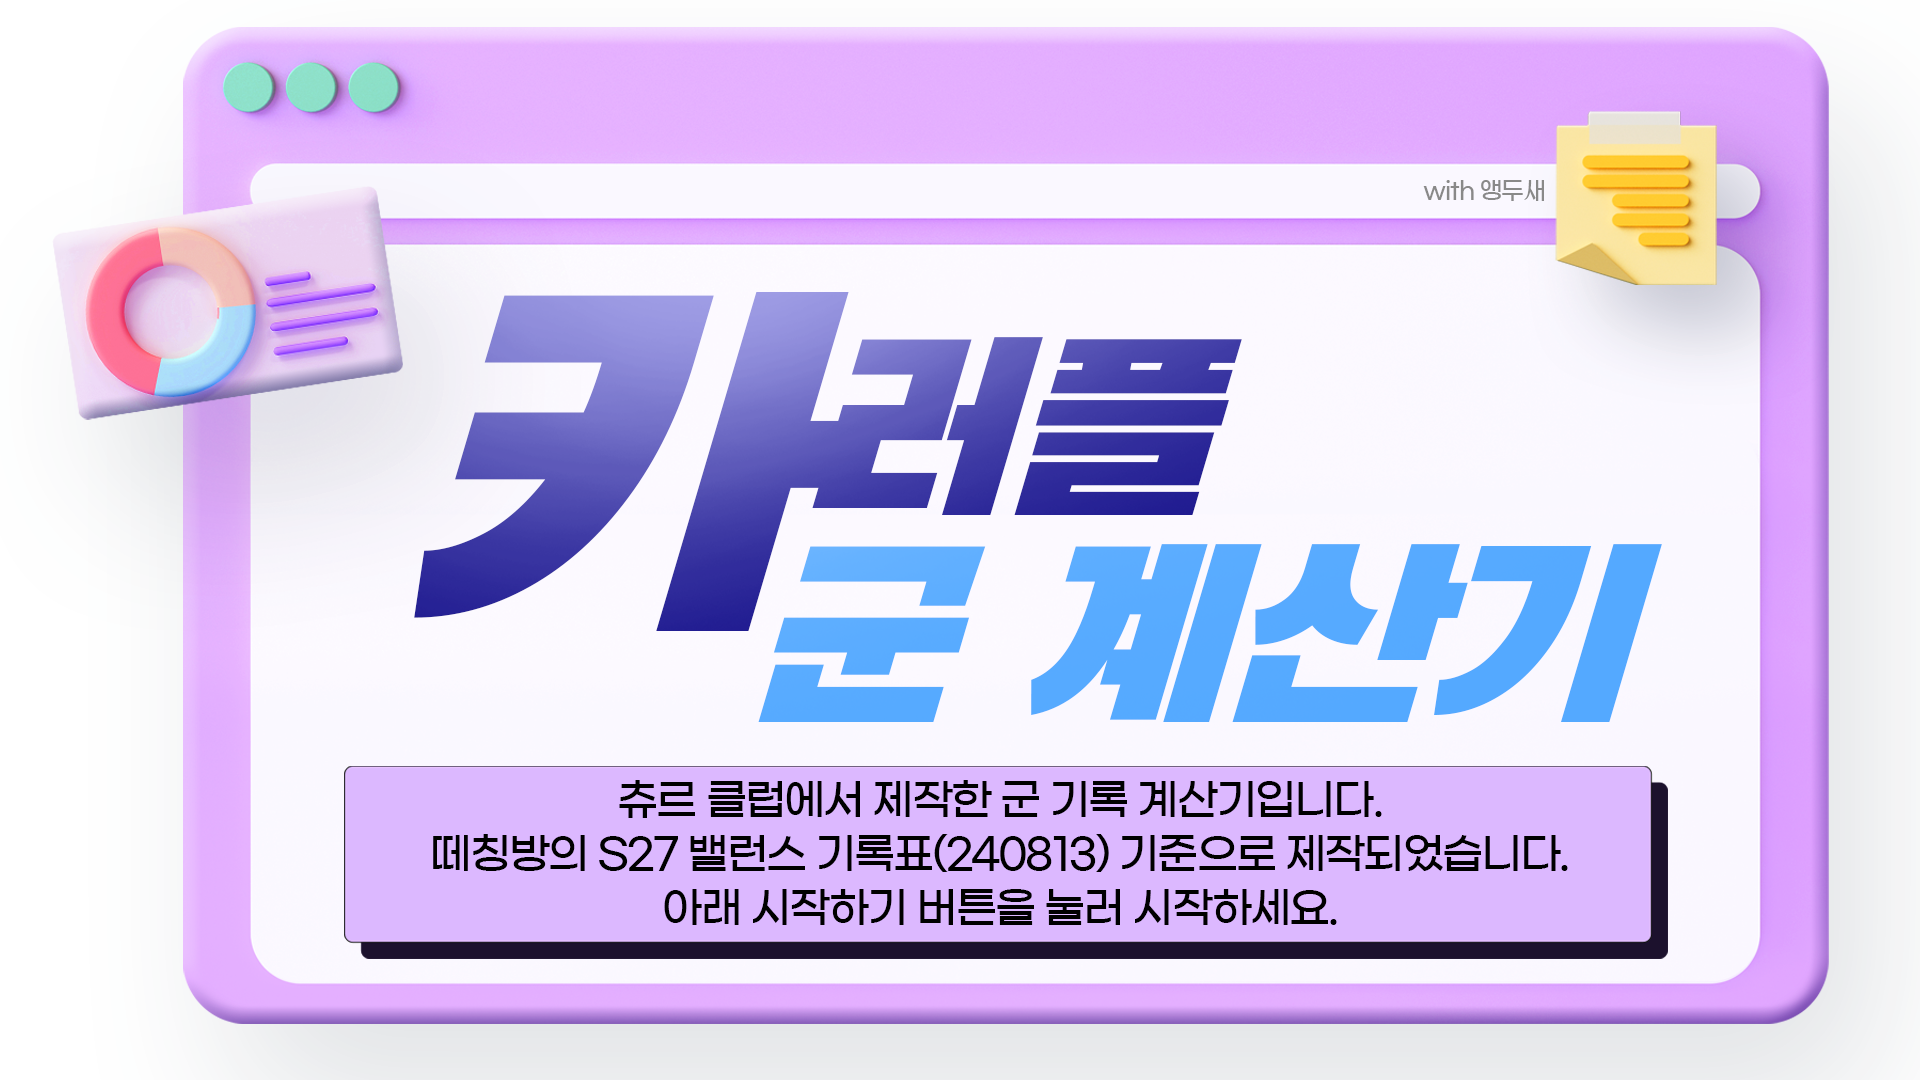
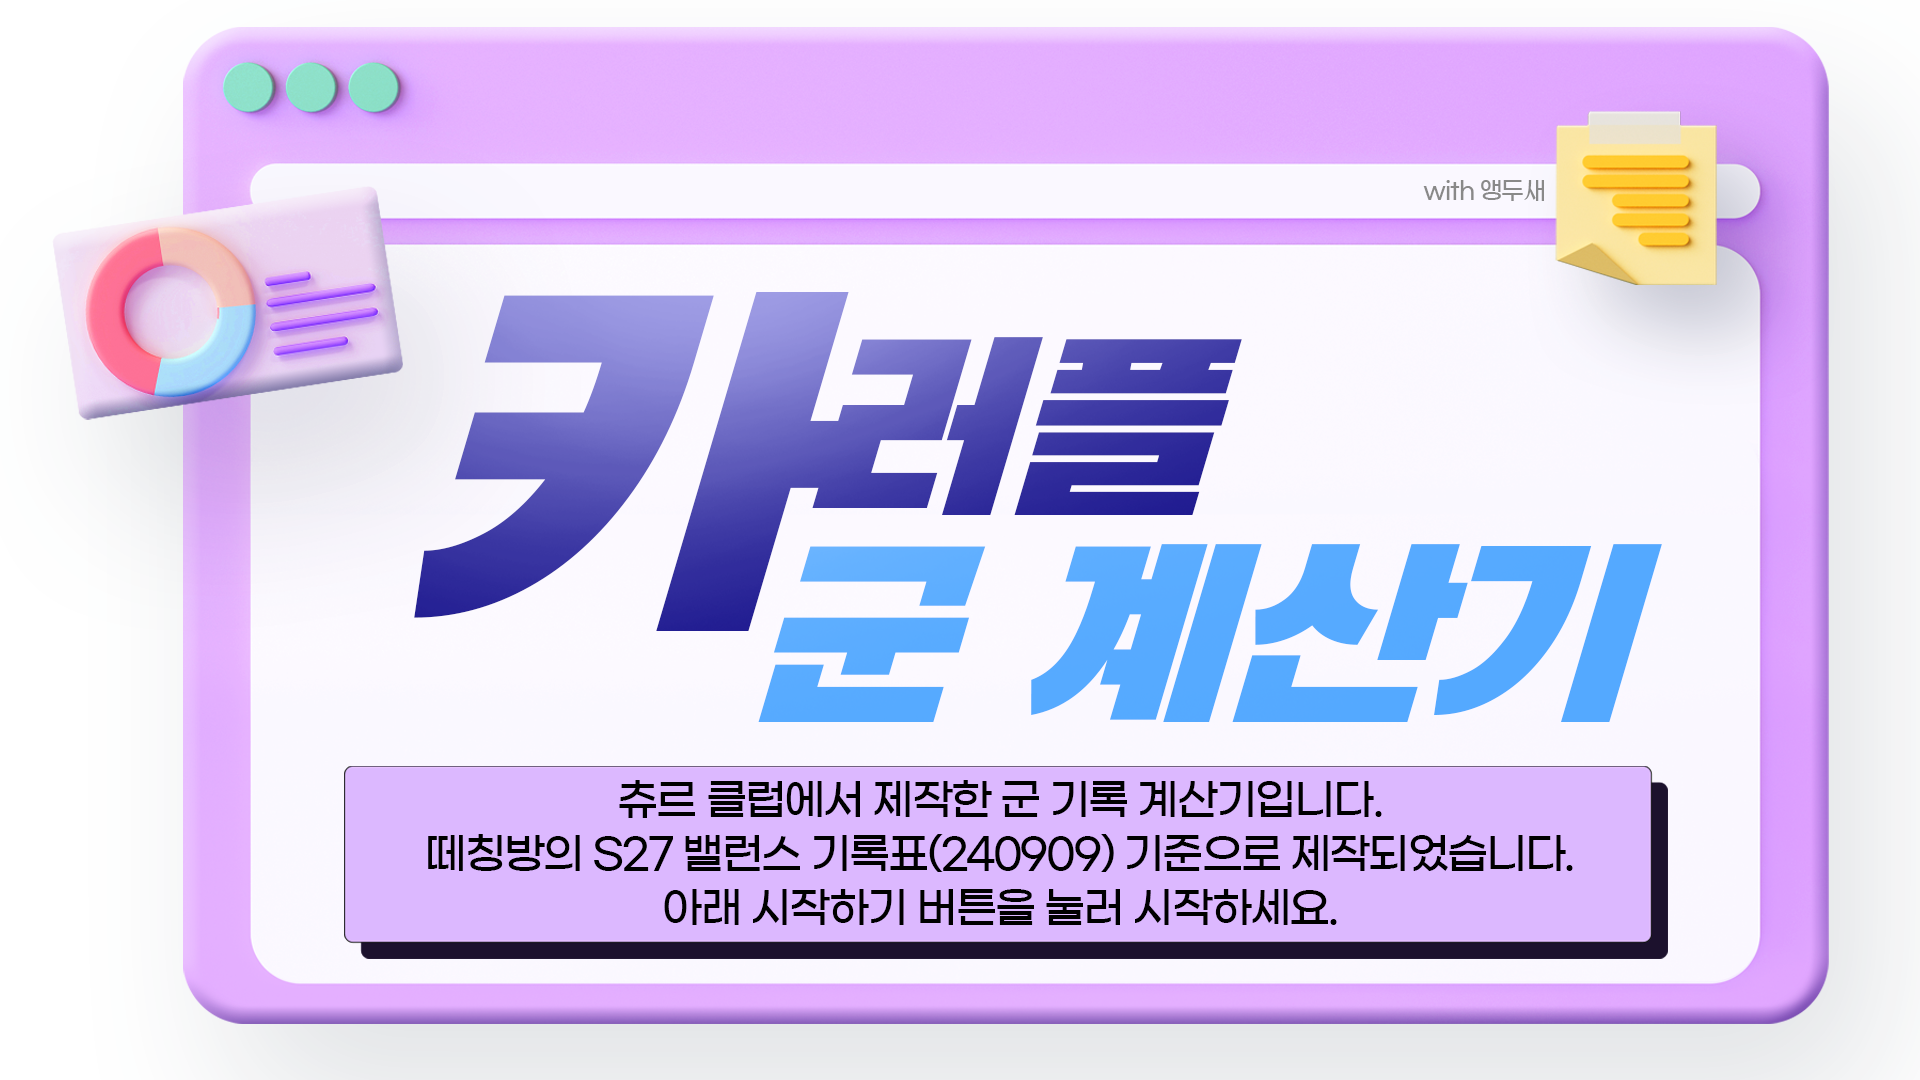
[frontend] feat: New S27 track

Changed region(s): [[0.2188, 0.7639, 0.8125, 0.825]]

diff --git a/client/src/global/mapImages.js b/client/src/global/mapImages.js
@@ -38,6 +38,7 @@ import L3_027 from "../assets/images/map/027 동화 잠자는 숲속의 거인.p
 import L3_028 from "../assets/images/map/028 WKC 상해 서킷.png";
 import L3_029 from "../assets/images/map/029 노르테유 스카이웨이.png";
 import L3_030 from "../assets/images/map/030 카멜롯 팬드래건 캐슬.png";
+import L3_031 from "../assets/images/map/031 신화 오딘의 궁전.png";
 
 import L2_001 from "../assets/images/map/001 병마용.png";
 import L2_002 from "../assets/images/map/002 만리장성.png";
@@ -123,6 +124,7 @@ const mapImages = [
   L3_028,
   L3_029,
   L3_030,
+  L3_031,
 
   L2_001,
   L2_002,

diff --git a/client/src/global/mapData.js b/client/src/global/mapData.js
@@ -507,6 +507,19 @@ const mapData = [
     ],
     image: "030 카멜롯 팬드래건 캐슬.png",
   },
+  {
+    name: "신화 오딘의 궁전",
+    record: [
+      "01:37:99",
+      "01:39:49",
+      "01:40:99",
+      "01:42:49",
+      "01:43:99",
+      "01:45:49",
+      "01:45:49 +",
+    ],
+    image: "031 신화 오딘의 궁전.png",
+  },
 
   {
     name: "차이나 서안 병마용",
@@ -1046,7 +1059,7 @@ const mapData = [
 
 const mapCount = {
   Rookie: 9,
-  L3: 29,
+  L3: 30,
   L2: 29,
   L1: 12,
 };
